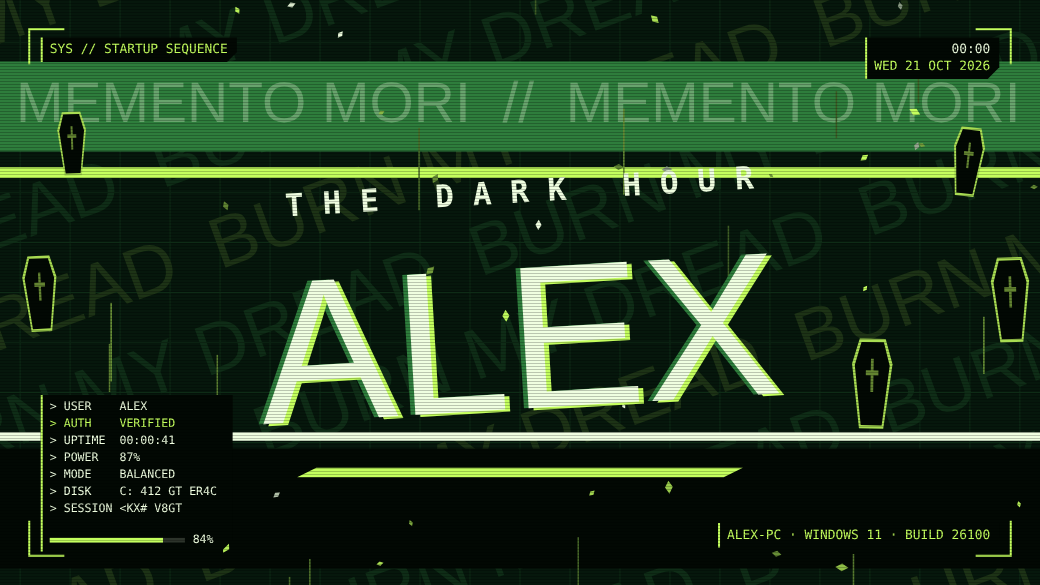
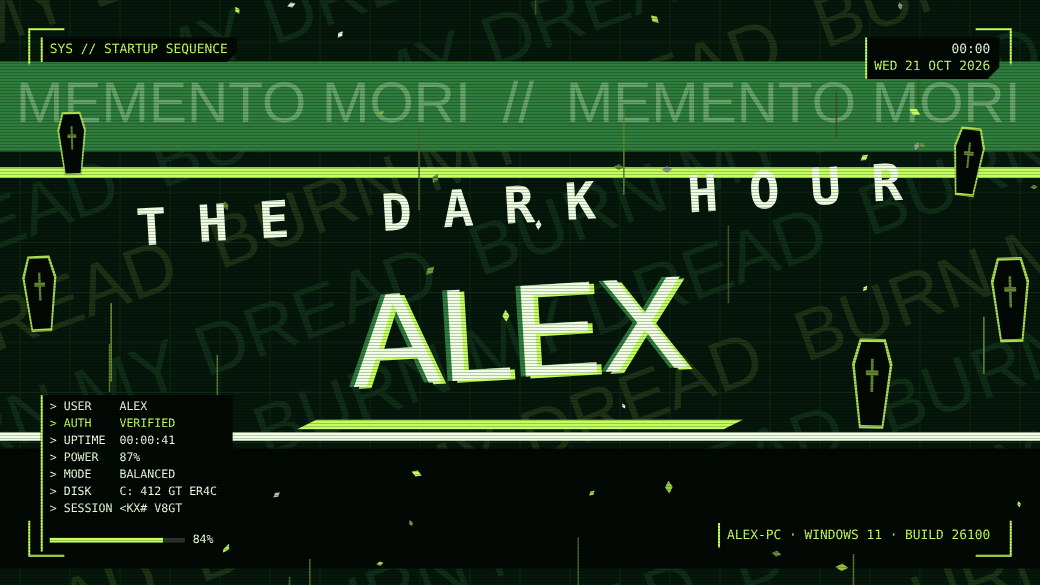
Balance the greeting and name sizes
Greeting text is larger and the name smaller so they read at a similar
size; long greetings shrink to fit. Screenshots refreshed.

Claude-Session: https://claude.ai/code/session_01RKLJ1fjdyNNufetyXFLTLW

diff --git a/preview/index.html b/preview/index.html
@@ -220,7 +220,7 @@
 
   // Name with afterimages and glitch slices
   function drawName(t) {
-    const cx = W / 2, cy = H * 0.6, rot = -0.06;
+    const cx = W / 2, cy = H * 0.58, rot = -0.06;
     const popAt = tt => {
       const u = clamp((tt - IMPACT + 0.08) / 0.08);
       return u > 0 ? 1 + Math.pow(1 - u, 3) * 2.4 : 0;
@@ -230,12 +230,12 @@
       const fade = clamp((IMPACT + 0.22 - t) / 0.22);
       for (let k = 3; k >= 1; k--) {
         const p = popAt(t - k * 0.035);
-        if (p > 0) text(NAME, cx, cy, H * 0.34 * p * (1 + k * 0.06), DISPLAY, mix(C.bg, k === 1 ? C.cyan : C.blue, fade * (0.55 - k * 0.12)), "center", rot);
+        if (p > 0) text(NAME, cx, cy, H * 0.22 * p * (1 + k * 0.06), DISPLAY, mix(C.bg, k === 1 ? C.cyan : C.blue, fade * (0.55 - k * 0.12)), "center", rot);
       }
     }
     const pop = popAt(t);
     if (!pop) return;
-    const px = H * 0.34 * pop;
+    const px = H * 0.22 * pop;
     const glitch = t < IMPACT + 0.3 ? 1 - (t - IMPACT) / 0.3 : 0;
     const split = H * (0.008 + 0.03 * Math.max(0, glitch));
     const frameSeed = Math.floor(t * 60);
@@ -246,7 +246,7 @@
 
     // Glitch: horizontal cuts through the word plus displaced bars
     if (glitch > 0.05) {
-      const top = cy - H * 0.19, hgt = H * 0.38, left = cx - H * 0.55, wid = H * 1.1;
+      const top = cy - H * 0.125, hgt = H * 0.25, left = cx - H * 0.36, wid = H * 0.72;
       for (let i = 0; i < 5; i++) {
         const r = hrand(frameSeed * 7 + i);
         const y = top + r * hgt, h = H * (0.006 + hrand(frameSeed * 3 + i) * 0.02) * glitch;
@@ -444,7 +444,7 @@
         let cx, cy;
         if (burst) {
           const ang = hrand(i + 81) * Math.PI * 2, dist = easeOut(life) * H * 0.55;
-          cx = W / 2 + Math.cos(ang) * dist * 1.6; cy = H * 0.6 + Math.sin(ang) * dist;
+          cx = W / 2 + Math.cos(ang) * dist * 1.6; cy = H * 0.58 + Math.sin(ang) * dist;
         } else {
           cx = W * (0.08 + hrand(i + 82) * 0.84); cy = H * (0.1 + hrand(i + 83) * 0.8);
         }
@@ -496,12 +496,13 @@
     // Greeting line
     const l1 = scramble(line1, t, 0.45, 0.03);
     if (l1) {
-      const px = H * 0.052;
+      let px = H * 0.085;
       ctx.font = `700 ${px}px ${MONO}`;
+      while (ctx.measureText(line1.split("").join("\u2009")).width > W * 0.8) { px *= 0.92; ctx.font = `700 ${px}px ${MONO}`; }
       const spaced = l1.split("").join(" ");
       const fw = ctx.measureText(line1.split("").join(" ")).width;
       ctx.save();
-      ctx.translate(W / 2 - fw / 2, H * 0.36); ctx.rotate(-0.06);
+      ctx.translate(W / 2 - fw / 2, H * 0.4); ctx.rotate(-0.06);
       ctx.textAlign = "left"; ctx.textBaseline = "middle";
       ctx.fillStyle = C.ice;
       ctx.fillText(spaced, 0, 0);
@@ -518,7 +519,7 @@
     // Cut under the name
     const up = easeOut(clamp((t - IMPACT - 0.08) / 0.25));
     if (up > 0) {
-      const y = H * 0.8, h = H * 0.016, x0 = W * 0.3, x1 = x0 + up * W * 0.4;
+      const y = H * 0.72, h = H * 0.016, x0 = W * 0.3, x1 = x0 + up * W * 0.4;
       poly([x0 + h, y - h / 2, x1 + h, y - h / 2, x1 - h, y + h / 2, x0 - h, y + h / 2], C.cyan);
     }
 
